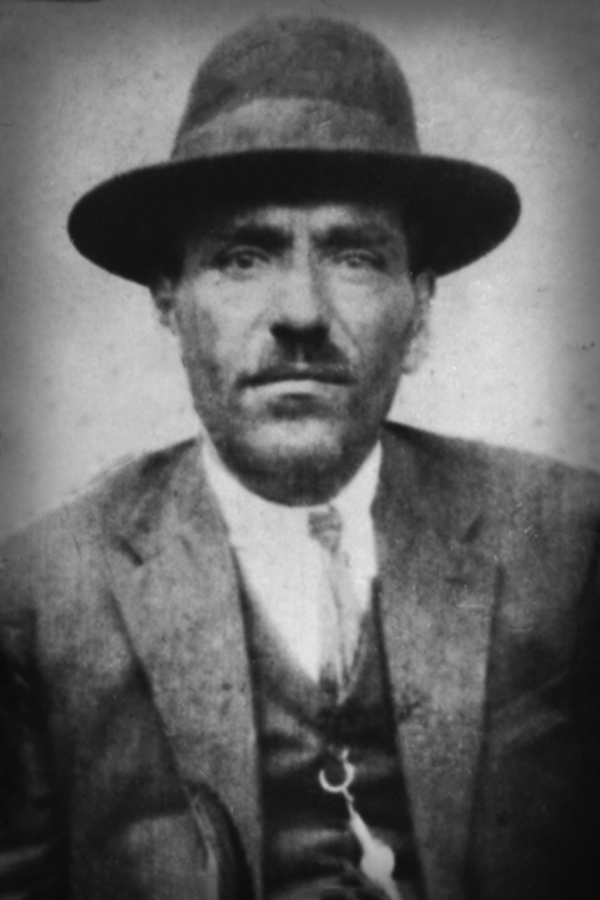
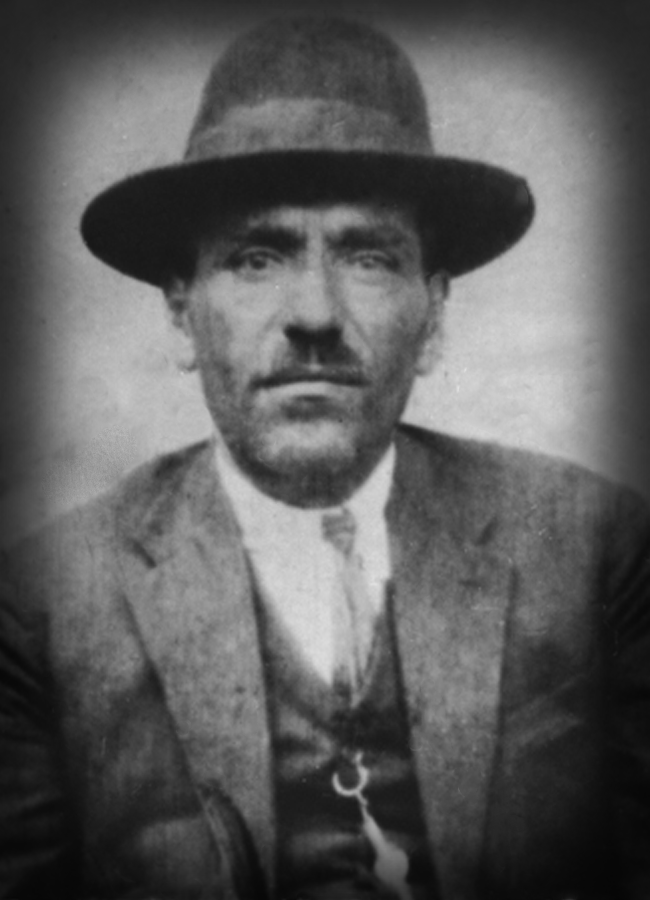
Stories update

diff --git a/slider/script/slider.js b/slider/script/slider.js
@@ -1,5 +1,6 @@
 let animsDuration = 800;
 let myCurrentSlide = 0;
+let storiesCount = 4;
 
 $(document).ready(() => {
 
@@ -36,25 +37,29 @@ $(document).ready(() => {
             $("#sliderDesc, #sliderExplore").hide("fade", animsDuration, () => {
                 switch(myCurrentSlide){
                     case 0:{
-                        $("#sliderDesc h1").text("STORY 00");
-                        $("#sliderDesc p").text("Lorem ipsum dolor sit amet consectetur adipisicing elit. Beatae, accusamus maiores. Aut ad nobis eligendi! Nobis reprehenderit laboriosam odio? Nemo tempore voluptas hic magnam ullam dicta cum fugit, veniam ab?");
+                        $("#sliderDesc h1").text("TOWER OF SEPHARDIC FACES");
+                        $("#sliderDesc p").text("Between 1941 and 1944, Bulgaria, in alliance with Nazi Germany, occupied the Yugoslav province of Macedonia. On March 11, 1943, in cooperation with the Germans...");
                     }
                         break;
                     case 1:{
-                        $("#sliderDesc h1").text("STORY 01");
-                        $("#sliderDesc p").text("Lorem ipsum dolor sit amet consectetur adipisicing elit. Beatae, accusamus maiores. Aut ad nobis eligendi! Nobis reprehenderit laboriosam odio? Nemo tempore voluptas hic magnam ullam dicta cum fugit, veniam ab?");
-                    }
-                        break;
-                    case 2:{
                         $("#sliderDesc h1").text("STORY 02");
                         $("#sliderDesc p").text("Lorem ipsum dolor sit amet consectetur adipisicing elit. Beatae, accusamus maiores. Aut ad nobis eligendi! Nobis reprehenderit laboriosam odio? Nemo tempore voluptas hic magnam ullam dicta cum fugit, veniam ab?");
                     }
                         break;
+                    case 2:{
+                        $("#sliderDesc h1").text("STORY 03");
+                        $("#sliderDesc p").text("Lorem ipsum dolor sit amet consectetur adipisicing elit. Beatae, accusamus maiores. Aut ad nobis eligendi! Nobis reprehenderit laboriosam odio? Nemo tempore voluptas hic magnam ullam dicta cum fugit, veniam ab?");
+                    }
+                        break;
+                    case 3:{
+                        $("#sliderDesc h1").text("STORY 04");
+                        $("#sliderDesc p").text("Lorem ipsum dolor sit amet consectetur adipisicing elit. Beatae, accusamus maiores. Aut ad nobis eligendi! Nobis reprehenderit laboriosam odio? Nemo tempore voluptas hic magnam ullam dicta cum fugit, veniam ab?");
+                    }
                     default:
                         break;
                 }
                 $("#sliderDesc, #sliderExplore").show("fade", animsDuration);
-            })
+            });
         }
     });
 
@@ -63,21 +68,10 @@ $(document).ready(() => {
     });
 
     $("#exploreBtn").on("click", () => {
-        switch(myCurrentSlide){
-            case 0:{
-                redirectToStory("story00");
+        for(let n = 0; n < storiesCount; n += 1){
+            if(n === myCurrentSlide){
+                redirectToStory(`story0${n + 1}`);
             }
-                break;
-            case 1:{
-                redirectToStory("story01");
-            }
-                break;
-            case 2:{
-                redirectToStory("story02");
-            }
-                break;
-            default:
-                break;
         }
     });
 });
@@ -87,7 +81,7 @@ function updateSliderDesc(){
         "margin-top": `${window.innerHeight * 0.5}px`
     });
     $("#sliderExplore").css({
-        "margin-top": `${parseInt($("#sliderDesc").css("margin-top").slice(0, -2)) + 150}px`
+        "margin-top": `${parseInt($("#sliderDesc").css("margin-top").slice(0, -2)) + 200}px`
     });
 }
 

diff --git a/slider/slider.html b/slider/slider.html
@@ -12,6 +12,7 @@
     <link rel="stylesheet" type="text/css" href="../dependencies/slick-1.8.0/slick/slick-theme.css">
 
     <link href="https://fonts.googleapis.com/css?family=Roboto" rel="stylesheet"> 
+    <link href="https://fonts.googleapis.com/css?family=Frank+Ruhl+Libre" rel="stylesheet"> 
     <link rel="stylesheet" type="text/css" href="../common/style/index.css">
     <link rel="stylesheet" type="text/css" href="../common/style/nav.css">
 
@@ -20,9 +21,9 @@
 <body>
     <div class="container col-12" id="sliderDesc">
         <div class="row justify-content-center">
-            <h1>STORY 00</h1>
+            <h1>TOWER OF SEPHARDIC FACES</h1>
             <div class="w-100"></div>
-            <p class="col-5 text-center">Lorem ipsum dolor sit amet consectetur adipisicing elit. Beatae, accusamus maiores. Aut ad nobis eligendi! Nobis reprehenderit laboriosam odio? Nemo tempore voluptas hic magnam ullam dicta cum fugit, veniam ab?</p>
+            <p class="col-5 text-center">Between 1941 and 1944, Bulgaria, in alliance with Nazi Germany, occupied the Yugoslav province of Macedonia. On March 11, 1943, in cooperation with the Germans...</p>
         </div>
     </div>
     <div class="container col-12" id="sliderExplore">
@@ -35,7 +36,7 @@
     <div class="slider align-middle" id="mainDiv">
         <article>
             <div class="img-box">
-                <img src="img/img2.png"/>
+                <img src="img/img1.png"/>
             </div>
         </article>
         <article>
@@ -45,12 +46,12 @@
         </article>
         <article>
             <div class="img-box">
-                <img src="img/img2.png"/>
+                <img src="img/img3.png"/>
             </div>
         </article>
         <article>
             <div class="img-box">
-                <img src="img/img2.png"/>
+                <img src="img/img4.png"/>
             </div>
         </article>
         <article>

diff --git a/stories/story03/story03.html b/stories/story03/story03.html
@@ -1,0 +1,13 @@
+<!DOCTYPE html>
+<html lang="en">
+<head>
+    <meta charset="UTF-8">
+    <meta name="viewport" content="width=device-width, initial-scale=1.0">
+    <meta http-equiv="X-UA-Compatible" content="ie=edge">
+    <title>Document</title>
+</head>
+<body>
+    <h1>Story 03</h1>
+    <p>Lorem ipsum dolor sit amet consectetur adipisicing elit. Libero, quam nemo maxime excepturi culpa, labore, pariatur provident iure odit accusantium mollitia et neque dolores obcaecati tempore dicta? Dolorum, veniam eveniet?</p>
+</body>
+</html>

diff --git a/stories/story04/story04.html b/stories/story04/story04.html
@@ -7,7 +7,7 @@
     <title>Document</title>
 </head>
 <body>
-    <h2>Story 00</h2>
+    <h2>Story 04</h2>
     <p>Lorem, ipsum dolor sit amet consectetur adipisicing elit. Blanditiis, fugiat sunt, amet eveniet deserunt quisquam obcaecati velit dolor incidunt molestiae quis officiis saepe excepturi corporis delectus quod vero animi quasi.</p>
 </body>
 </html>

diff --git a/slider/style/slider.css b/slider/style/slider.css
@@ -3,6 +3,12 @@
     z-index: 1000;
     color: white;
     pointer-events: none;
+    
+}
+
+#sliderDesc h1{
+    font-family: 'Frank Ruhl Libre', serif;
+    font-size: 64px;
 }
 
 #sliderExplore{
